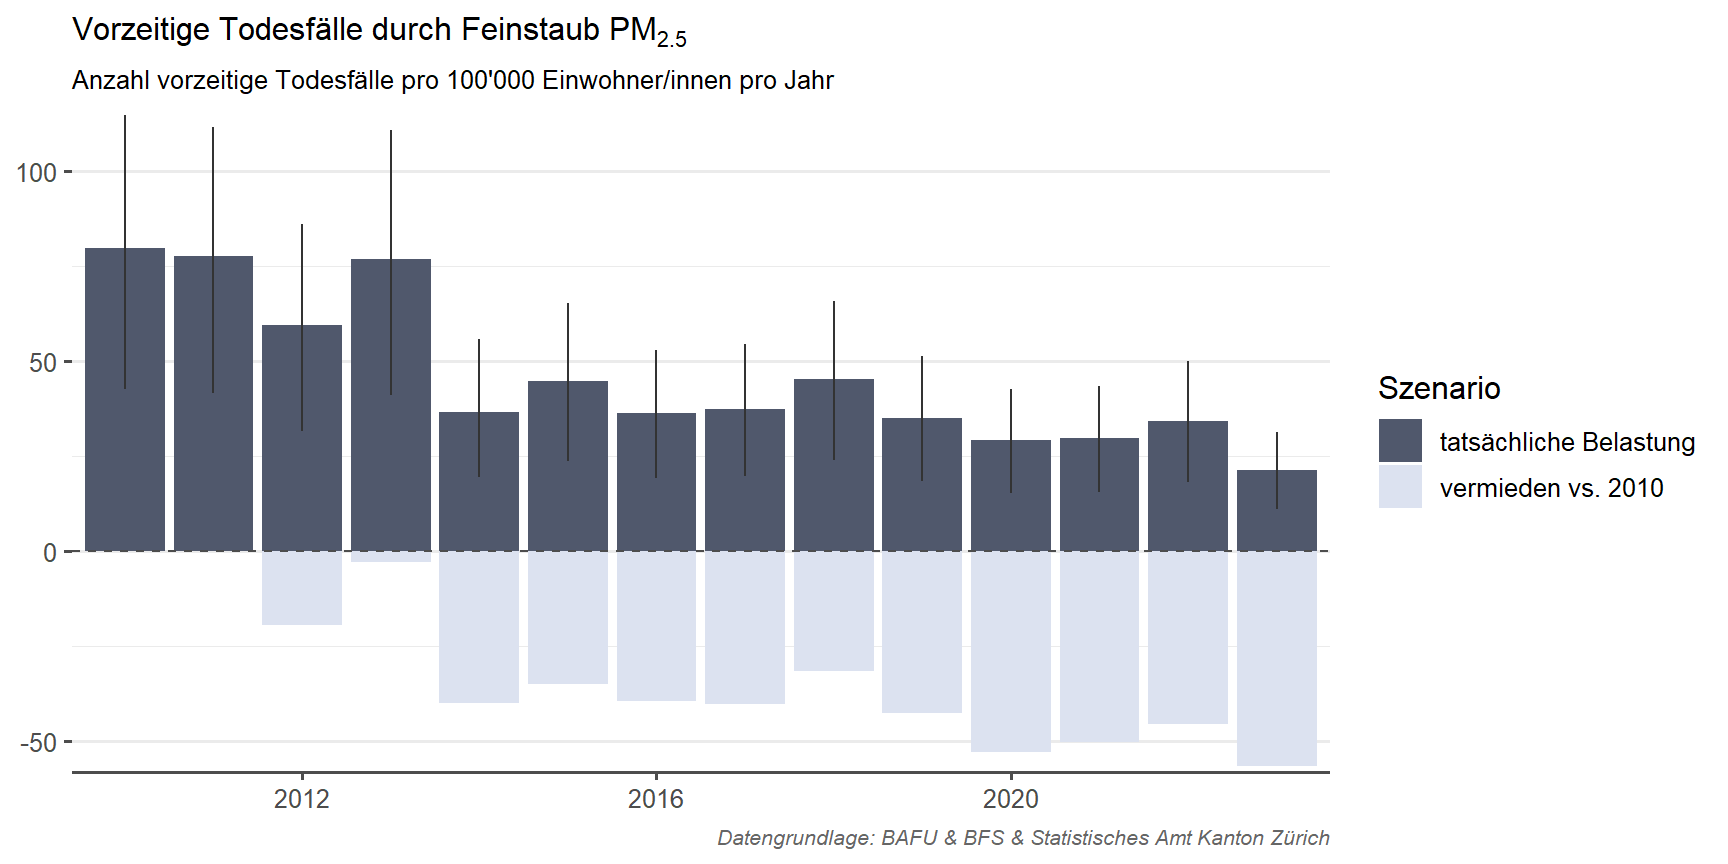
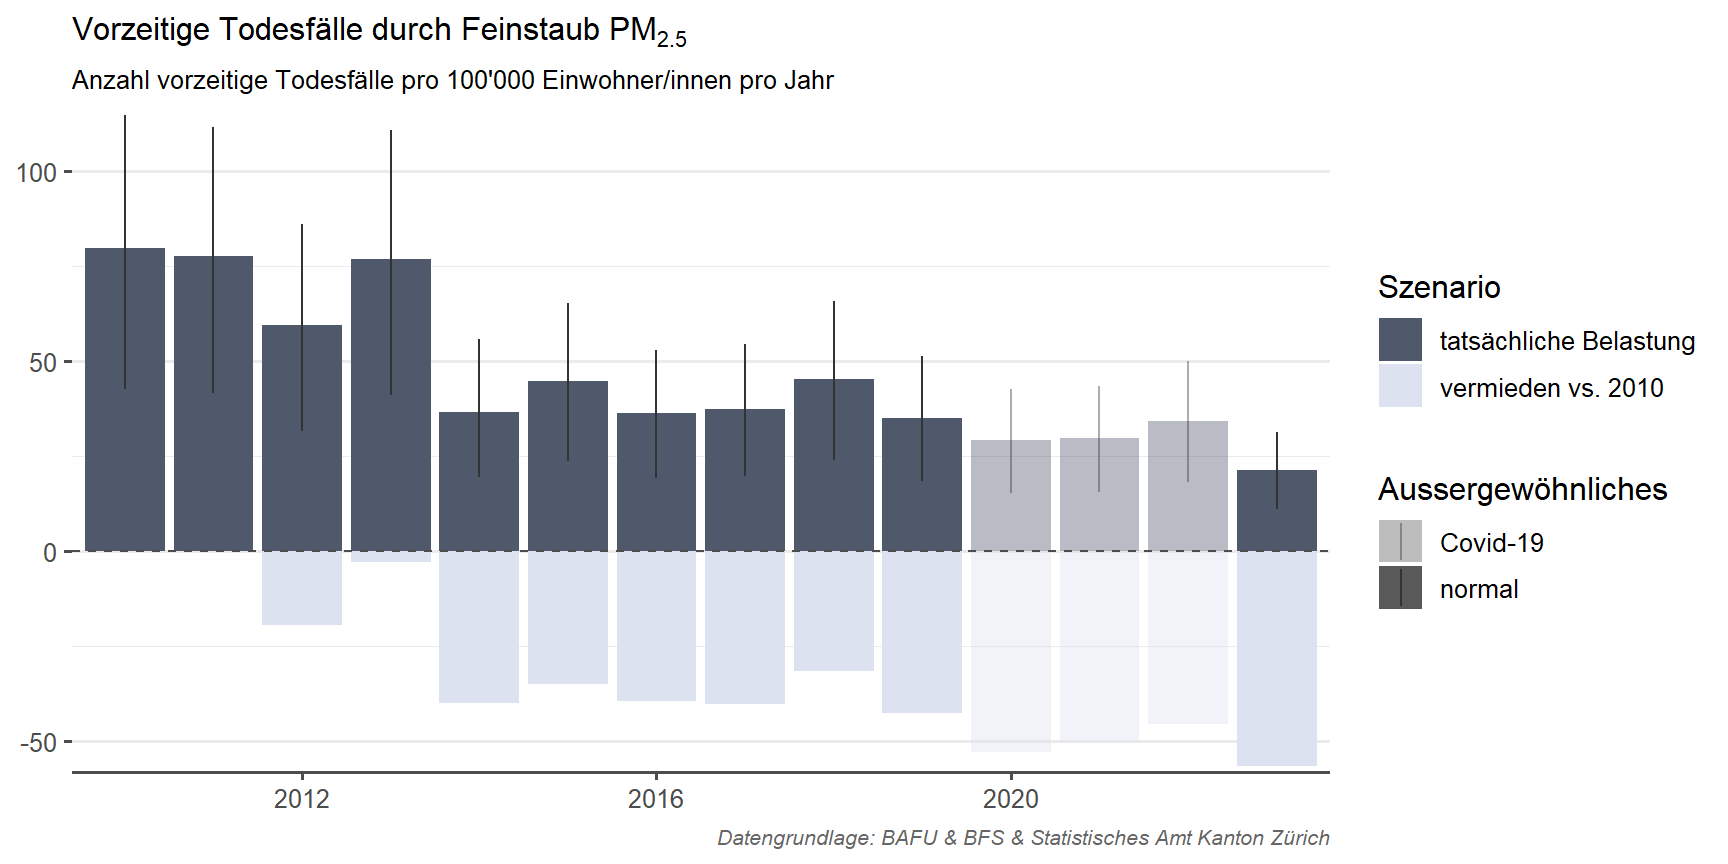
update html

Changed region(s): [[0.7812, 0.3125, 1.0, 0.7188], [0.5625, 0.4688, 0.7188, 0.6562]]

diff --git a/docs/Gesundheitsfolgen.html b/docs/Gesundheitsfolgen.html
@@ -210,6 +210,7 @@ Grundlagen
 <div class="callout-body-container callout-body">
 <p>In der vorliegenden Berechnung richten wir uns nach dem etablierten epidemiologischen Vorgehen (vergleiche z.B. <a href="https://edoc.unibas.ch/96059/">Castro et al., 2023</a>). Die Ergebnisse sind somit methodisch grundsätzlich vergleichbar mit anderen Studien in der Schweiz und international (methodische Abweichungen ergeben sich im Detail, so sind z.B. aufgrund unterschiedlicher verwendeter Grundlagen die Ergebnisse hier nicht 1:1 konsistent mit denen des <a href="https://www.are.admin.ch/are/de/home.html">Bundesamtes für Raumentwicklung ARE</a> in Bezug auf die <a href="https://www.are.admin.ch/are/de/home/mobilitaet/grundlagen-und-daten/kosten-und-nutzen-des-verkehrs.html">Auswirkungen durch den Verkehr</a>). Wir nutzen Dosis-Wirkungsbeziehungen und Schwellenwerte, die dem aktuellen Stand der Wissenschaft entsprechen und möglichst repräsentativ für die Schweizer Bevölkerung sind. Dafür richten wir uns nach den Empfehlungen von Expert/innen der Schweizer <a href="https://www.swisstph.ch/de/projects/ludok">Dokumentationsstelle Luftverschmutzung und Gesundheit (LUDOK)</a>.</p>
 <p>In den Grafiken wird der wissenschaftlich und statistisch am sichersten abgestützte Wert als Balken dargestellt. Die Unsicherheitsbereiche (vertikale Linien) enthalten zwei Unsicherheitsbeträge: 1) die statistische Unsicherheit der verwendeten Dosis-Wirkungsbeziehungen (95% Vertrauensbereich) sowie 2) die Verwendung alternativer Schwellenwerte, nämlich der minimal auftretenden Luftbelastung als unterste Wirkschwelle, da gemäss dem aktuellen <a href="https://www.who.int/publications/i/item/9789240034228">wissenschaftlichen Synthesebericht der Weltgesundheitsorganisation</a> auch unterhalb der WHO-Richtwerte Gesundheitsauswirkungen durch Luftverschmutzung wahrscheinlich sind.</p>
+<p>Vor allem in den Jahren 2020 bis 2022 hat die Schweiz eine <a href="https://www.bfs.admin.ch/bfs/de/home/statistiken/gesundheit/gesundheitszustand/sterblichkeit-todesursachen.html">Übersterblichkeit durch die Covid-19 Pandemie</a> erlebt. Da jährliche Daten zu Todesfällen eine Grundlage der Gesundheitsfolgenabschätzung durch Luftbelastung sind, werden die Ergebnisse dieser Jahre geringfügig überschätzt. Die entsprechenden Jahre sind in den Abbildungen gekennzeichnet.</p>
 <p>Betrachtet man die Veränderung der Gesundheitswirkungen durch Luftbelastung über mehrere Jahre, so wird diese einerseits durch die Entwicklung der Luftqualität und andererseits durch die Veränderung der Anzahl und räumlichen Verteilung der Wohnbevölkerung beeinflusst.</p>
 </div>
 </div>
@@ -226,8 +227,7 @@ Work-in-Progress !
 </div>
 <div id="callout-4" class="callout-4-contents callout-collapse collapse">
 <div class="callout-body-container callout-body">
-<p>Aktuell wird die Gesamt-Sterberate im Kanton Zürich als Grundlage verwendet. Diese unterscheidet nicht zwischen natürlichen und unnatürlichem Todesfällen und umfasst alle Altersgruppen. Daher ist das aktuelle Ergebnis eine Überschätzung der Todesfälle aufgrund von Luftbelastung. Wir arbeiten daran, eine gänzlich korrekte Grundlage zu verwenden.</p>
-<p>Vor allem in den Jahren 2020 bis 2022 hat die Schweiz eine Übersterblichkeit durch die Covid-19 Pandemie erlebt. Da jährliche Daten zu Todesfällen eine Grundlage der Gesundheitsfolgenabschätzung durch Luftbelastung sind, werden die Ergebnisse dieser Jahre etwas überschätzt. Es wird an einer entsprechenden Korrektur gearbeitet.</p>
+<p>Aktuell wird die Gesamt-Sterberate im Kanton Zürich als Grundlage verwendet. Diese unterscheidet nicht zwischen krankheitsbedingten und unnatürlichen Todesfällen und umfasst alle Altersgruppen. Daher ist das aktuelle Ergebnis eine Überschätzung der Todesfälle aufgrund von Luftbelastung. Wir arbeiten daran, eine gänzlich korrekte Grundlage zu verwenden.</p>
 </div>
 </div>
 </div>
@@ -890,7 +890,7 @@ window.document.addEventListener("DOMContentLoaded", function (event) {
 });
 </script>
 </div> <!-- /content -->
-<script>var lightboxQuarto = GLightbox({"loop":false,"openEffect":"zoom","closeEffect":"zoom","descPosition":"bottom","selector":".lightbox"});
+<script>var lightboxQuarto = GLightbox({"openEffect":"zoom","closeEffect":"zoom","descPosition":"bottom","selector":".lightbox","loop":false});
 (function() {
   let previousOnload = window.onload;
   window.onload = () => {

diff --git a/docs/Belastungsverteilung.html b/docs/Belastungsverteilung.html
@@ -3512,7 +3512,7 @@ window.document.addEventListener("DOMContentLoaded", function (event) {
 });
 </script>
 </div> <!-- /content -->
-<script>var lightboxQuarto = GLightbox({"selector":".lightbox","openEffect":"zoom","loop":false,"closeEffect":"zoom","descPosition":"bottom"});
+<script>var lightboxQuarto = GLightbox({"openEffect":"zoom","descPosition":"bottom","selector":".lightbox","loop":false,"closeEffect":"zoom"});
 (function() {
   let previousOnload = window.onload;
   window.onload = () => {

diff --git a/docs/Schadstoffausstoss.html b/docs/Schadstoffausstoss.html
@@ -1117,7 +1117,7 @@ window.document.addEventListener("DOMContentLoaded", function (event) {
 });
 </script>
 </div> <!-- /content -->
-<script>var lightboxQuarto = GLightbox({"openEffect":"zoom","closeEffect":"zoom","loop":false,"descPosition":"bottom","selector":".lightbox"});
+<script>var lightboxQuarto = GLightbox({"selector":".lightbox","closeEffect":"zoom","descPosition":"bottom","loop":false,"openEffect":"zoom"});
 (function() {
   let previousOnload = window.onload;
   window.onload = () => {

diff --git a/docs/Luftqualität.html b/docs/Luftqualität.html
@@ -868,7 +868,7 @@ window.document.addEventListener("DOMContentLoaded", function (event) {
 });
 </script>
 </div> <!-- /content -->
-<script>var lightboxQuarto = GLightbox({"descPosition":"bottom","loop":false,"selector":".lightbox","closeEffect":"zoom","openEffect":"zoom"});
+<script>var lightboxQuarto = GLightbox({"selector":".lightbox","closeEffect":"zoom","descPosition":"bottom","openEffect":"zoom","loop":false});
 (function() {
   let previousOnload = window.onload;
   window.onload = () => {

diff --git a/docs/about.html b/docs/about.html
@@ -168,7 +168,7 @@ ul.task-list li input[type="checkbox"] {
     <div>
     <div class="quarto-title-meta-heading">Published</div>
     <div class="quarto-title-meta-contents">
-      <p class="date">28. March 2025</p>
+      <p class="date">04. April 2025</p>
     </div>
   </div>
   
